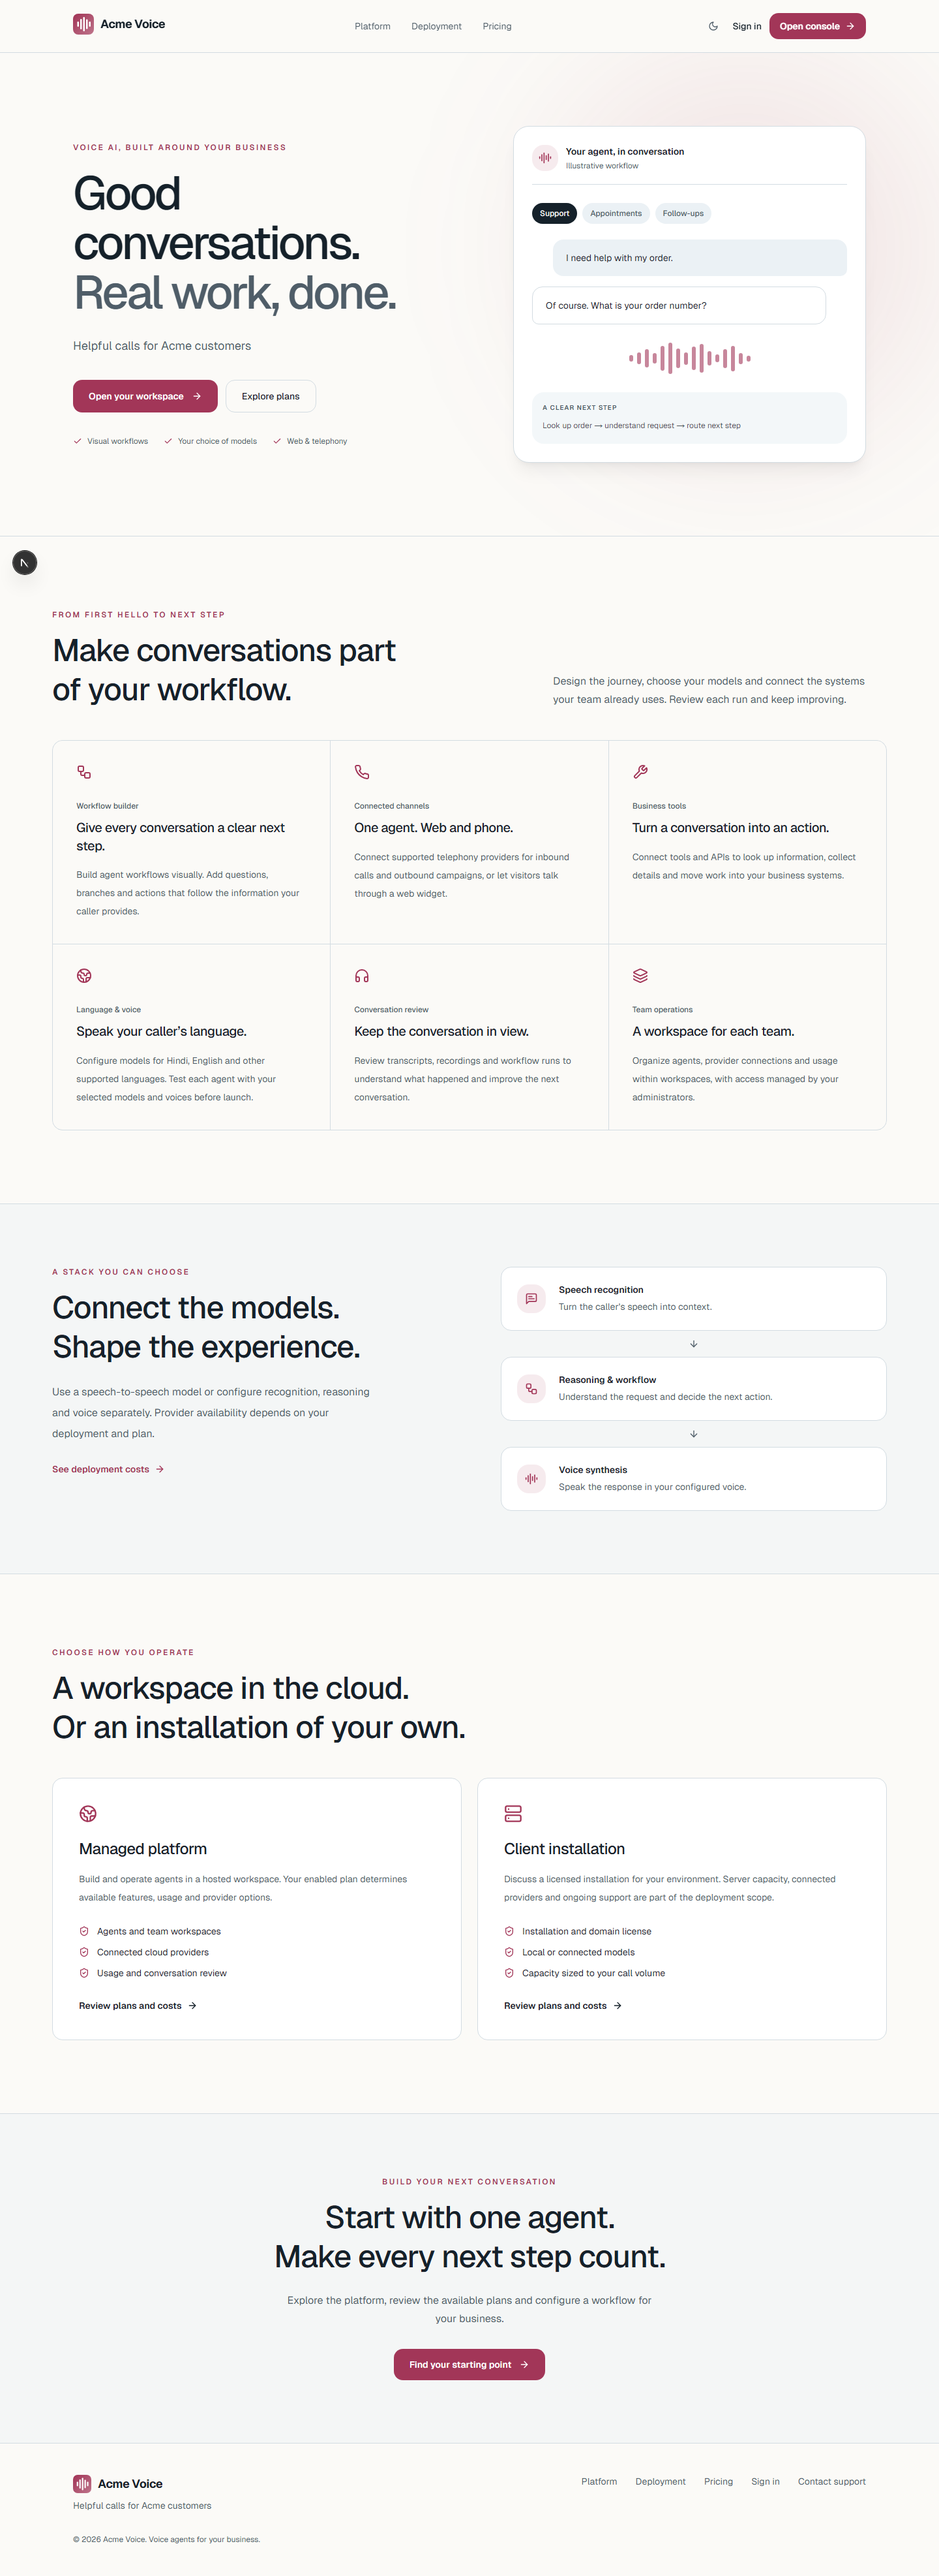
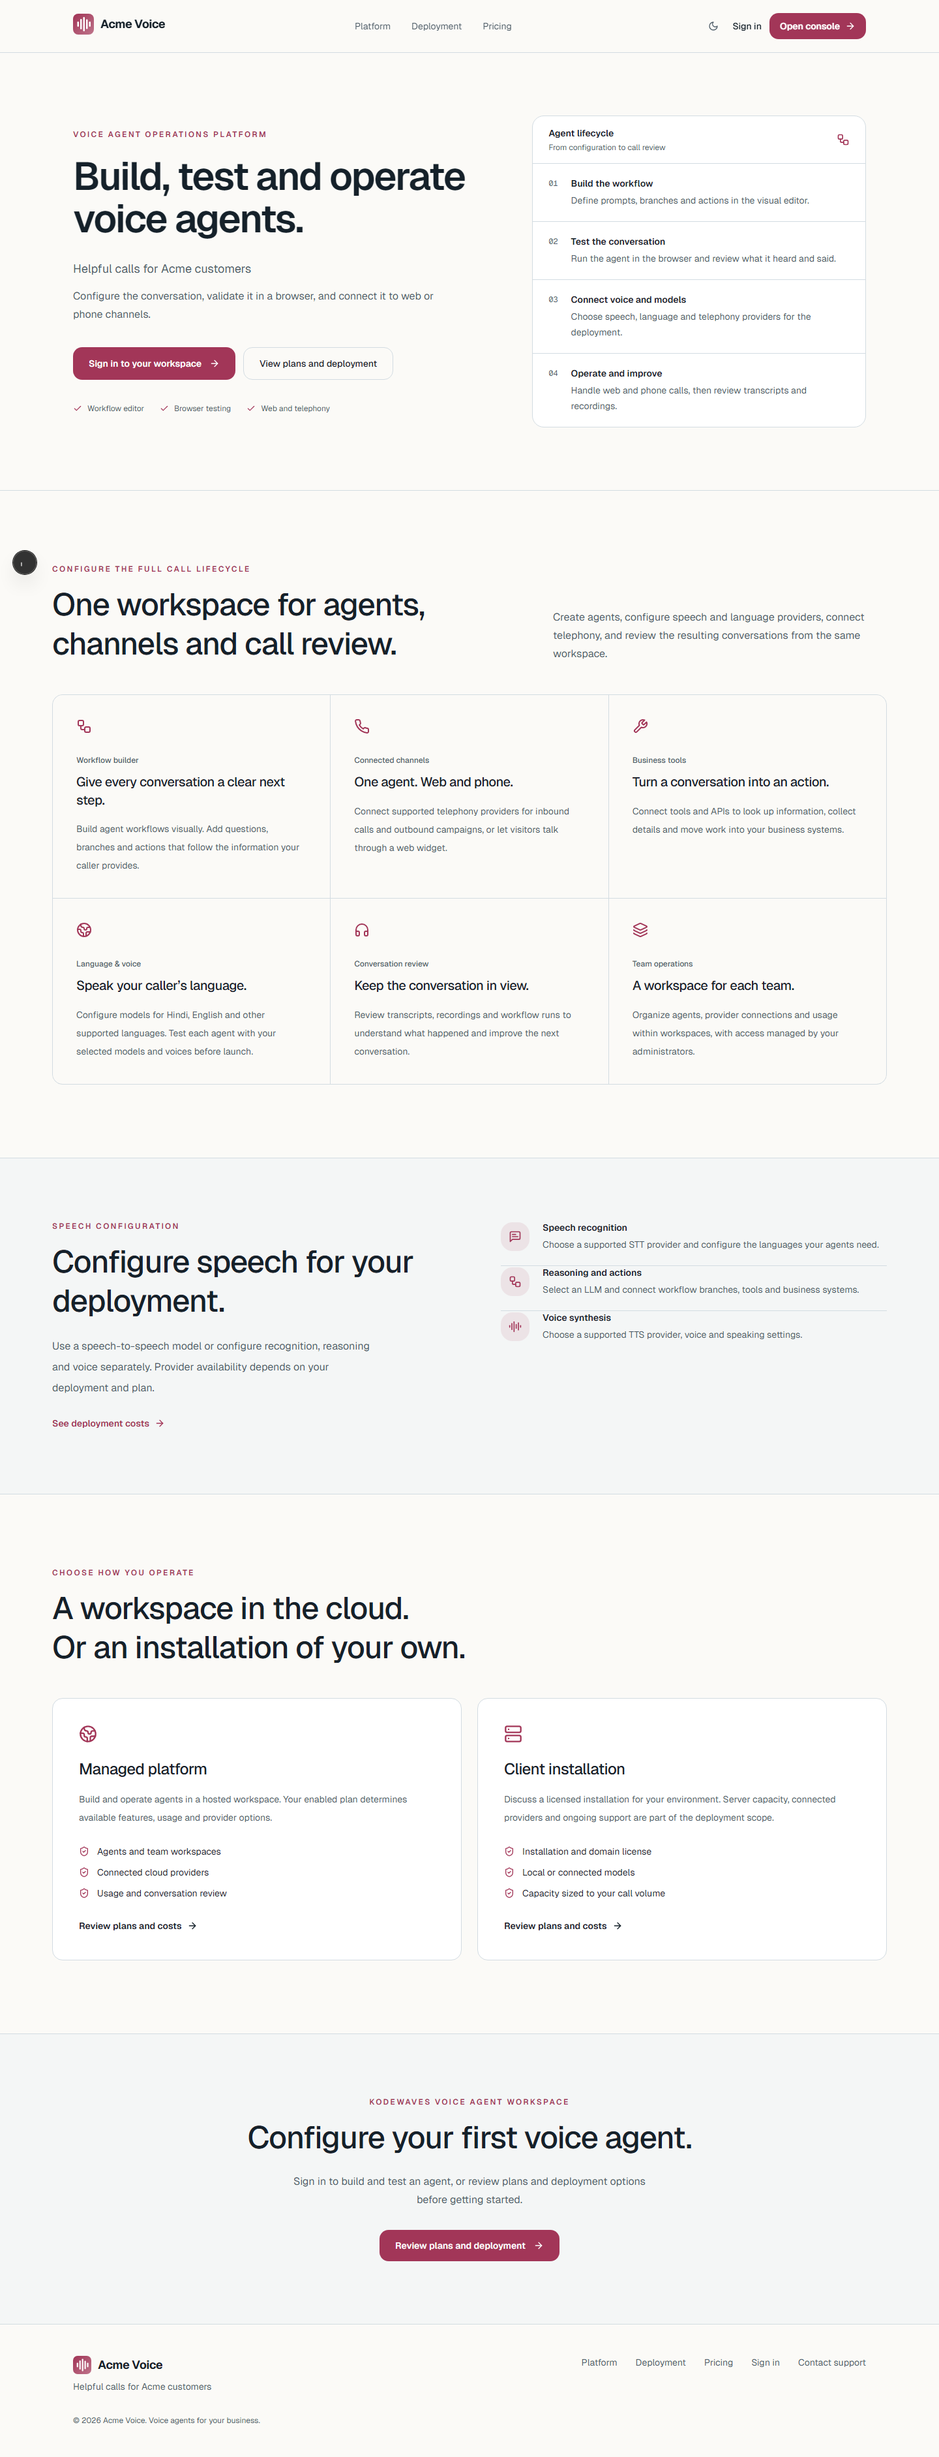
Make public homepage reflect the real voice platform

diff --git a/ui/src/app/page.tsx b/ui/src/app/page.tsx
@@ -1,7 +1,6 @@
 "use client";
 
 import {
-  ArrowDown,
   ArrowRight,
   AudioLines,
   Check,
@@ -16,7 +15,6 @@ import {
   Wrench,
 } from "lucide-react";
 import Link from "next/link";
-import { useState } from "react";
 
 import { PublicFooter, PublicHeader } from "@/components/PublicSiteChrome";
 import { useClientBranding } from "@/context/ClientBrandingContext";
@@ -59,86 +57,69 @@ const capabilities = [
     text: "Organize agents, provider connections and usage within workspaces, with access managed by your administrators.",
   },
 ];
-const examples = {
-  Support: {
-    question: "I need help with my order.",
-    answer: "Of course. What is your order number?",
-    action: "Look up order → understand request → route next step",
-  },
-  Appointments: {
-    question: "Can I book an appointment?",
-    answer: "Sure. Which day would work for you?",
-    action: "Collect preferences → check connected tools → confirm details",
-  },
-  "Follow-ups": {
-    question: "Can you tell me more about the service?",
-    answer: "Happy to help. What would you like to know?",
-    action: "Understand interest → answer from context → collect next step",
-  },
-};
 const stages = [
   {
-    icon: MessageSquareText,
-    title: "Speech recognition",
-    text: "Turn the caller’s speech into context.",
+    number: "01",
+    title: "Build the workflow",
+    text: "Define prompts, branches and actions in the visual editor.",
   },
   {
-    icon: Workflow,
-    title: "Reasoning & workflow",
-    text: "Understand the request and decide the next action.",
+    number: "02",
+    title: "Test the conversation",
+    text: "Run the agent in the browser and review what it heard and said.",
   },
   {
-    icon: AudioLines,
-    title: "Voice synthesis",
-    text: "Speak the response in your configured voice.",
+    number: "03",
+    title: "Connect voice and models",
+    text: "Choose speech, language and telephony providers for the deployment.",
+  },
+  {
+    number: "04",
+    title: "Operate and improve",
+    text: "Handle web and phone calls, then review transcripts and recordings.",
   },
 ];
 
 export default function HomePage() {
   const branding = useClientBranding();
-  const [example, setExample] = useState<keyof typeof examples>("Support");
-  const selected = examples[example];
   return (
     <div className="min-h-screen bg-background text-foreground">
       <PublicHeader />
       <main id="main-content">
         <section className="relative overflow-hidden border-b border-border">
-          <div
-            aria-hidden="true"
-            className="pointer-events-none absolute right-0 top-0 size-[600px] rounded-full bg-cta/10 blur-[120px]"
-          />
-          <div className="relative mx-auto grid max-w-7xl items-center gap-14 px-5 py-16 sm:px-8 sm:py-24 lg:grid-cols-[1.1fr_1fr] lg:gap-20 lg:py-28">
+          <div className="mx-auto grid max-w-7xl items-center gap-12 px-5 py-16 sm:px-8 sm:py-20 lg:grid-cols-[1fr_0.82fr] lg:gap-20 lg:py-24">
             <div>
               <p className="mb-6 text-xs font-semibold uppercase tracking-[0.2em] text-cta">
-                Voice AI, built around your business
+                Voice agent operations platform
               </p>
-              <h1 className="text-5xl font-medium leading-[1.06] tracking-[-0.05em] sm:text-6xl lg:text-7xl">
-                Good conversations.
-                <br />
-                <span className="text-muted-foreground">Real work, done.</span>
+              <h1 className="max-w-3xl text-4xl font-semibold leading-[1.08] tracking-[-0.035em] sm:text-5xl lg:text-6xl">
+                Build, test and operate voice agents.
               </h1>
               <p className="mt-7 max-w-xl text-lg leading-8 text-muted-foreground">
                 {branding.tagline}
+              </p>
+              <p className="mt-3 max-w-xl leading-7 text-muted-foreground">
+                Configure the conversation, validate it in a browser, and connect it to web or phone channels.
               </p>
               <div className="mt-9 flex flex-wrap gap-3">
                 <Link
                   href="/auth/login"
                   className="inline-flex items-center gap-3 rounded-lg bg-cta px-6 py-3.5 text-sm font-semibold text-cta-foreground hover:bg-cta/90"
                 >
-                  Open your workspace <ArrowRight className="size-4" />
+                  Sign in to your workspace <ArrowRight className="size-4" />
                 </Link>
                 <Link
                   href="/pricing"
                   className="rounded-lg border border-border px-6 py-3.5 text-sm font-medium hover:bg-muted"
                 >
-                  Explore plans
+                  View plans and deployment
                 </Link>
               </div>
               <div className="mt-9 flex flex-wrap gap-x-6 gap-y-3 text-xs text-muted-foreground">
                 {[
-                  "Visual workflows",
-                  "Your choice of models",
-                  "Web & telephony",
+                  "Workflow editor",
+                  "Browser testing",
+                  "Web and telephony",
                 ].map((item) => (
                   <span key={item} className="flex items-center gap-2">
                     <Check className="size-3.5 text-cta" />
@@ -147,68 +128,25 @@ export default function HomePage() {
                 ))}
               </div>
             </div>
-            <div className="rounded-3xl border border-border bg-card p-5 shadow-xl shadow-black/5 sm:p-7">
-              <div className="mb-7 flex items-center gap-3 border-b border-border pb-5">
-                <span className="flex size-10 items-center justify-center rounded-xl bg-cta/10 text-cta">
-                  <AudioLines className="size-5" />
-                </span>
+            <div className="overflow-hidden rounded-xl border border-border bg-card">
+              <div className="flex items-center justify-between border-b border-border px-6 py-4">
                 <div>
-                  <p className="text-sm font-semibold">
-                    Your agent, in conversation
-                  </p>
-                  <p className="mt-1 text-xs text-muted-foreground">
-                    Illustrative workflow
-                  </p>
+                  <p className="text-sm font-semibold">Agent lifecycle</p>
+                  <p className="mt-1 text-xs text-muted-foreground">From configuration to call review</p>
                 </div>
+                <Workflow className="size-5 text-cta" aria-hidden="true" />
               </div>
-              <div
-                className="mb-6 flex flex-wrap gap-2"
-                aria-label="Conversation examples"
-              >
-                {(Object.keys(examples) as Array<keyof typeof examples>).map(
-                  (key) => (
-                    <button
-                      key={key}
-                      type="button"
-                      aria-pressed={example === key}
-                      onClick={() => setExample(key)}
-                      className={`rounded-full px-3 py-2 text-xs font-medium ${example === key ? "bg-foreground text-background" : "bg-muted text-muted-foreground hover:text-foreground"}`}
-                    >
-                      {key}
-                    </button>
-                  ),
-                )}
-              </div>
-              <div aria-live="polite" className="space-y-4">
-                <div className="ml-8 rounded-2xl rounded-br-sm bg-muted px-5 py-4 text-sm leading-6">
-                  {selected.question}
-                </div>
-                <div className="mr-8 rounded-2xl rounded-bl-sm border border-border px-5 py-4 text-sm leading-6">
-                  {selected.answer}
-                </div>
-              </div>
-              <div
-                aria-hidden="true"
-                className="my-7 flex h-12 items-center justify-center gap-1.5"
-              >
-                {[
-                  10, 18, 28, 16, 38, 48, 30, 19, 36, 44, 22, 12, 29, 39, 17, 9,
-                ].map((height, index) => (
-                  <span
-                    key={index}
-                    className="w-1.5 rounded-full bg-cta/60"
-                    style={{ height }}
-                  />
+              <ol className="divide-y divide-border">
+                {stages.map(({ number, title, text }) => (
+                  <li key={number} className="flex gap-5 px-6 py-5">
+                    <span className="pt-0.5 font-mono text-xs tabular-nums text-muted-foreground">{number}</span>
+                    <div>
+                      <h2 className="text-sm font-semibold">{title}</h2>
+                      <p className="mt-1 text-sm leading-6 text-muted-foreground">{text}</p>
+                    </div>
+                  </li>
                 ))}
-              </div>
-              <div className="rounded-xl bg-muted/60 p-4">
-                <p className="mb-2 text-[10px] font-semibold uppercase tracking-widest text-muted-foreground">
-                  A clear next step
-                </p>
-                <p className="text-xs leading-6 text-foreground/80">
-                  {selected.action}
-                </p>
-              </div>
+              </ol>
             </div>
           </div>
         </section>
@@ -220,15 +158,15 @@ export default function HomePage() {
             <div className="mb-12 grid gap-6 md:grid-cols-2 md:items-end">
               <div>
                 <p className="mb-4 text-xs font-semibold uppercase tracking-[0.2em] text-cta">
-                  From first hello to next step
+                Configure the full call lifecycle
                 </p>
                 <h2 className="max-w-xl text-4xl font-medium leading-tight tracking-tight sm:text-5xl">
-                  Make conversations part of your workflow.
+                  One workspace for agents, channels and call review.
                 </h2>
               </div>
               <p className="max-w-lg leading-7 text-muted-foreground md:justify-self-end">
-                Design the journey, choose your models and connect the systems
-                your team already uses. Review each run and keep improving.
+                Create agents, configure speech and language providers, connect
+                telephony, and review the resulting conversations from the same workspace.
               </p>
             </div>
             <div className="grid gap-px overflow-hidden rounded-2xl border border-border bg-border md:grid-cols-2 lg:grid-cols-3">
@@ -253,12 +191,10 @@ export default function HomePage() {
           <div className="mx-auto grid max-w-7xl gap-12 lg:grid-cols-2 lg:gap-24">
             <div>
               <p className="mb-4 text-xs font-semibold uppercase tracking-[0.2em] text-cta">
-                A stack you can choose
+                Speech configuration
               </p>
               <h2 className="text-4xl font-medium leading-tight tracking-tight sm:text-5xl">
-                Connect the models.
-                <br />
-                Shape the experience.
+                Configure speech for your deployment.
               </h2>
               <p className="mt-6 max-w-lg leading-8 text-muted-foreground">
                 Use a speech-to-speech model or configure recognition, reasoning
@@ -273,9 +209,13 @@ export default function HomePage() {
               </Link>
             </div>
             <div>
-              {stages.map(({ icon: Icon, title, text }, index) => (
+              {[
+                { icon: MessageSquareText, title: "Speech recognition", text: "Choose a supported STT provider and configure the languages your agents need." },
+                { icon: Workflow, title: "Reasoning and actions", text: "Select an LLM and connect workflow branches, tools and business systems." },
+                { icon: AudioLines, title: "Voice synthesis", text: "Choose a supported TTS provider, voice and speaking settings." },
+              ].map(({ icon: Icon, title, text }, index) => (
                 <div key={title}>
-                  <div className="flex items-center gap-5 rounded-2xl border border-border bg-card p-6">
+                  <div className="flex items-center gap-5 border-b border-border py-5 first:pt-0 last:border-b-0">
                     <span className="flex size-11 shrink-0 items-center justify-center rounded-xl bg-cta/10 text-cta">
                       <Icon className="size-5" />
                     </span>
@@ -286,9 +226,7 @@ export default function HomePage() {
                       </p>
                     </div>
                   </div>
-                  {index < 2 && (
-                    <ArrowDown className="mx-auto my-3 size-4 text-muted-foreground" />
-                  )}
+                  {index < 2 && <div className="sr-only">Next configuration stage</div>}
                 </div>
               ))}
             </div>
@@ -369,22 +307,20 @@ export default function HomePage() {
         <section className="border-t border-border bg-muted/40 px-5 py-20 text-center sm:px-8 sm:py-24">
           <div className="mx-auto max-w-3xl">
             <p className="mb-4 text-xs font-semibold uppercase tracking-[0.2em] text-cta">
-              Build your next conversation
+              Kodewaves voice agent workspace
             </p>
             <h2 className="text-4xl font-medium leading-tight tracking-tight sm:text-5xl">
-              Start with one agent.
-              <br />
-              Make every next step count.
+              Configure your first voice agent.
             </h2>
             <p className="mx-auto mt-6 max-w-xl leading-7 text-muted-foreground">
-              Explore the platform, review the available plans and configure a
-              workflow for your business.
+              Sign in to build and test an agent, or review plans and deployment
+              options before getting started.
             </p>
             <Link
               href="/pricing"
               className="mt-8 inline-flex items-center gap-3 rounded-lg bg-cta px-6 py-3.5 text-sm font-semibold text-cta-foreground hover:bg-cta/90"
             >
-              Find your starting point
+              Review plans and deployment
               <ArrowRight className="size-4" />
             </Link>
           </div>

diff --git a/ui/src/app/page.test.tsx b/ui/src/app/page.test.tsx
@@ -20,8 +20,22 @@ describe("public home branding", () => {
   it("uses the admin-configured brand tagline in the hero", () => {
     render(<HomePage />);
 
-    expect(
-      screen.getAllByText("Acme helps every caller take the next step."),
-    ).toHaveLength(2);
+    expect(screen.getByRole("main").textContent).toContain(
+      "Acme helps every caller take the next step.",
+    );
+    expect(screen.getByRole("contentinfo").textContent).toContain(
+      "Acme helps every caller take the next step.",
+    );
+  });
+
+  it("describes the real agent lifecycle without a fabricated conversation preview", () => {
+    render(<HomePage />);
+
+    expect(screen.getByRole("heading", { name: "Build, test and operate voice agents." })).toBeTruthy();
+    expect(screen.getByText("Agent lifecycle")).toBeTruthy();
+    expect(screen.getByText("Test the conversation")).toBeTruthy();
+    expect(screen.getByText("Operate and improve")).toBeTruthy();
+    expect(screen.queryByText("Illustrative workflow")).toBeNull();
+    expect(screen.queryByRole("group", { name: "Conversation examples" })).toBeNull();
   });
 });

diff --git a/ui/COMMERCIAL_CLIENT_BUNDLE_ROADMAP.md b/ui/COMMERCIAL_CLIENT_BUNDLE_ROADMAP.md
@@ -56,3 +56,4 @@
 - Current public pricing browser check (27 October): launched the isolated branch's Next dev server and rendered `/pricing` in headless Chromium at 1440 px with a mocked public catalog offer. The offer card displayed `$29.99` as `USD · one-time payment for 30 days of access`; the assertion found no `per month` label in that card. Replaced the stale saved pricing screenshot at `artifacts/public-pages/pricing-configured-1440-light.png` with this render. This verifies current UI copy and layout with fixture data, not a live catalog, payment, or production image. Earlier roadmap lines describing the work as entirely uncommitted are superseded by the local checkpoint commits above.
 - Public branding browser diagnosis (27 October): the first headless Chromium attempt timed out because the helper left its 2.96 GB Next development process listening on port 3187. After stopping that specific orphan and starting a fresh UI server, the browser acceptance below completed successfully; the initial timeout was a local test-process issue, not an application navigation failure.
 - Public branding browser acceptance (27 October): tracing that timeout showed the test helper had left its 2.96 GB Next development process listening on port 3187 after the command ended. After stopping that specific orphan and starting a fresh UI server, Chromium returned HTTP 200 and rendered the public home and pricing pages. The Acme Voice title was overwritten by late Next server metadata even though the configured tagline and brand had loaded; the shared branding provider now observes title mutations and restores the active route title. The browser assertion passed for the company name in both pages' header/footer, the configured home tagline, and titles `Acme Voice` and `Plans and pricing | Acme Voice`. Saved the fixture-backed render at `artifacts/public-pages/home-branded-1440-light.png`. The focused branding suite passes **3/3**, TypeScript and changed-file ESLint pass. This does not test an actual admin save against a live API or a client production image.
+- Public SaaS homepage refinement (27 October): replaced the fictional selectable chat, decorative waveform and generic headline with the actual Kodewaves agent lifecycle: build workflow, test in browser, connect speech/telephony providers, then operate and review calls. Kept the configured brand tagline, current product capabilities, pricing/deployment routes, palette tokens and existing responsive layout. The updated Acme-branded homepage and pricing pages render in Chromium; home title/tagline/header/footer assertions pass. Homepage tests pass **2/2**; TypeScript and changed-file ESLint pass. Screenshot refreshed at `artifacts/public-pages/home-branded-1440-light.png`. This covers public page presentation, not an authenticated admin workflow or production build.
